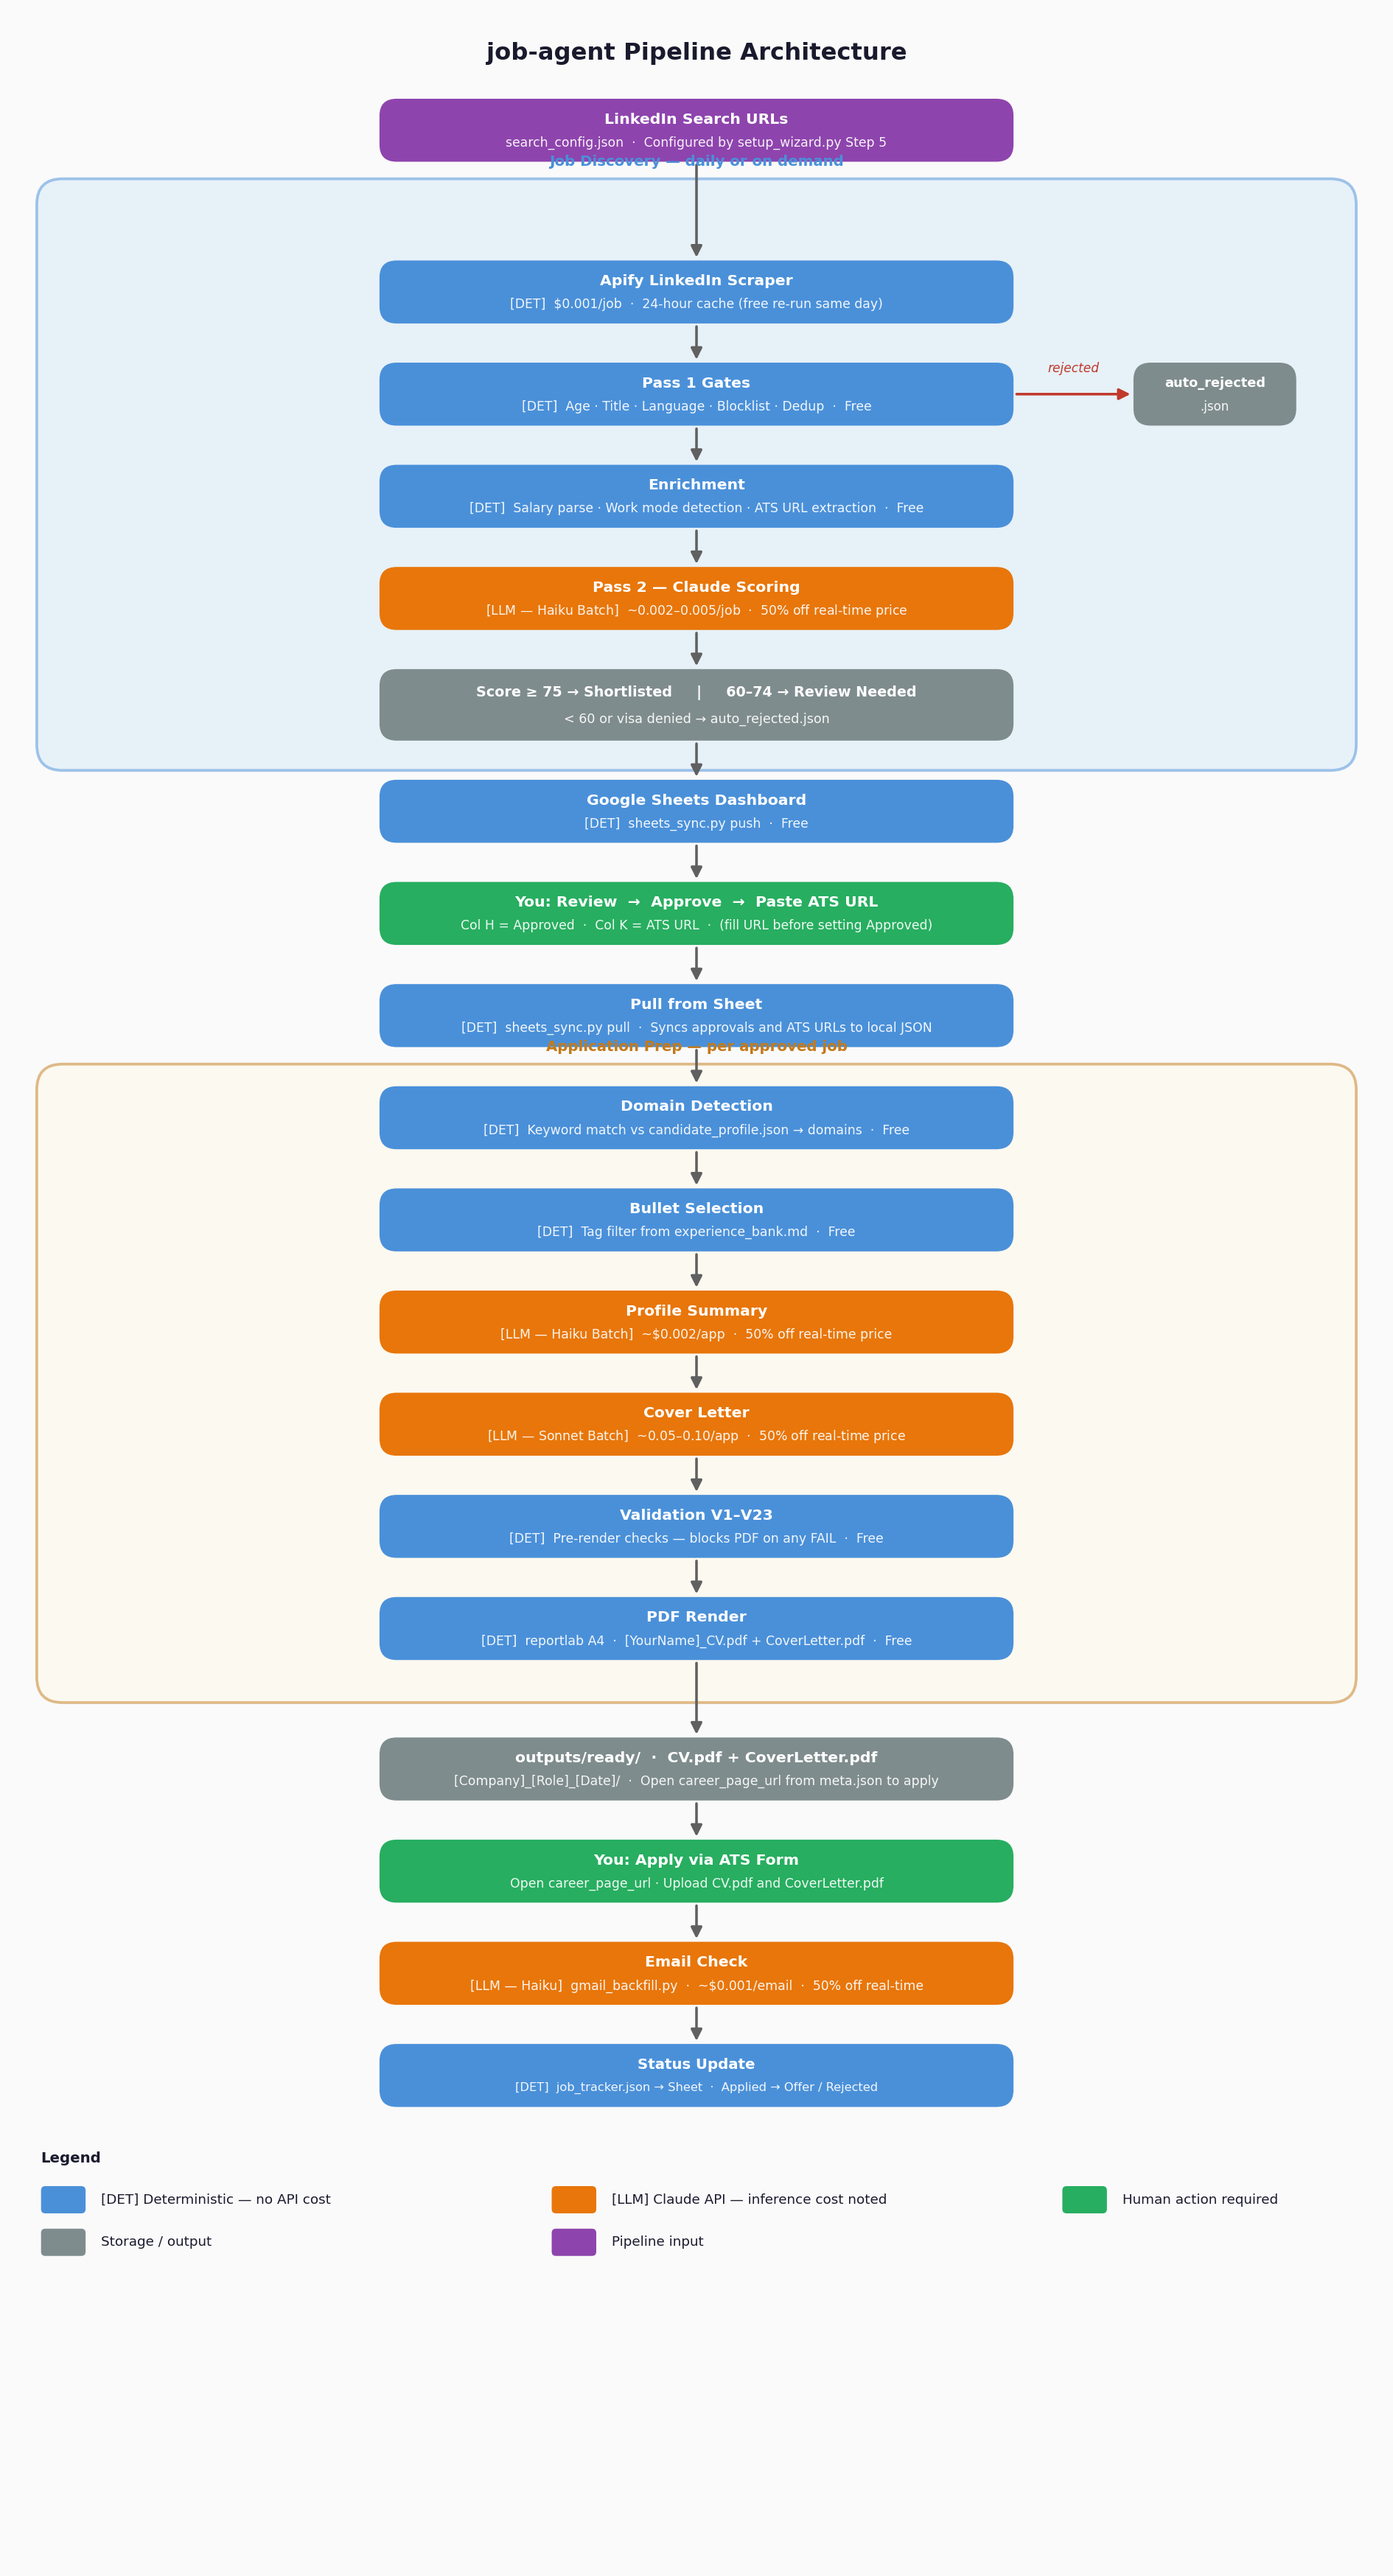
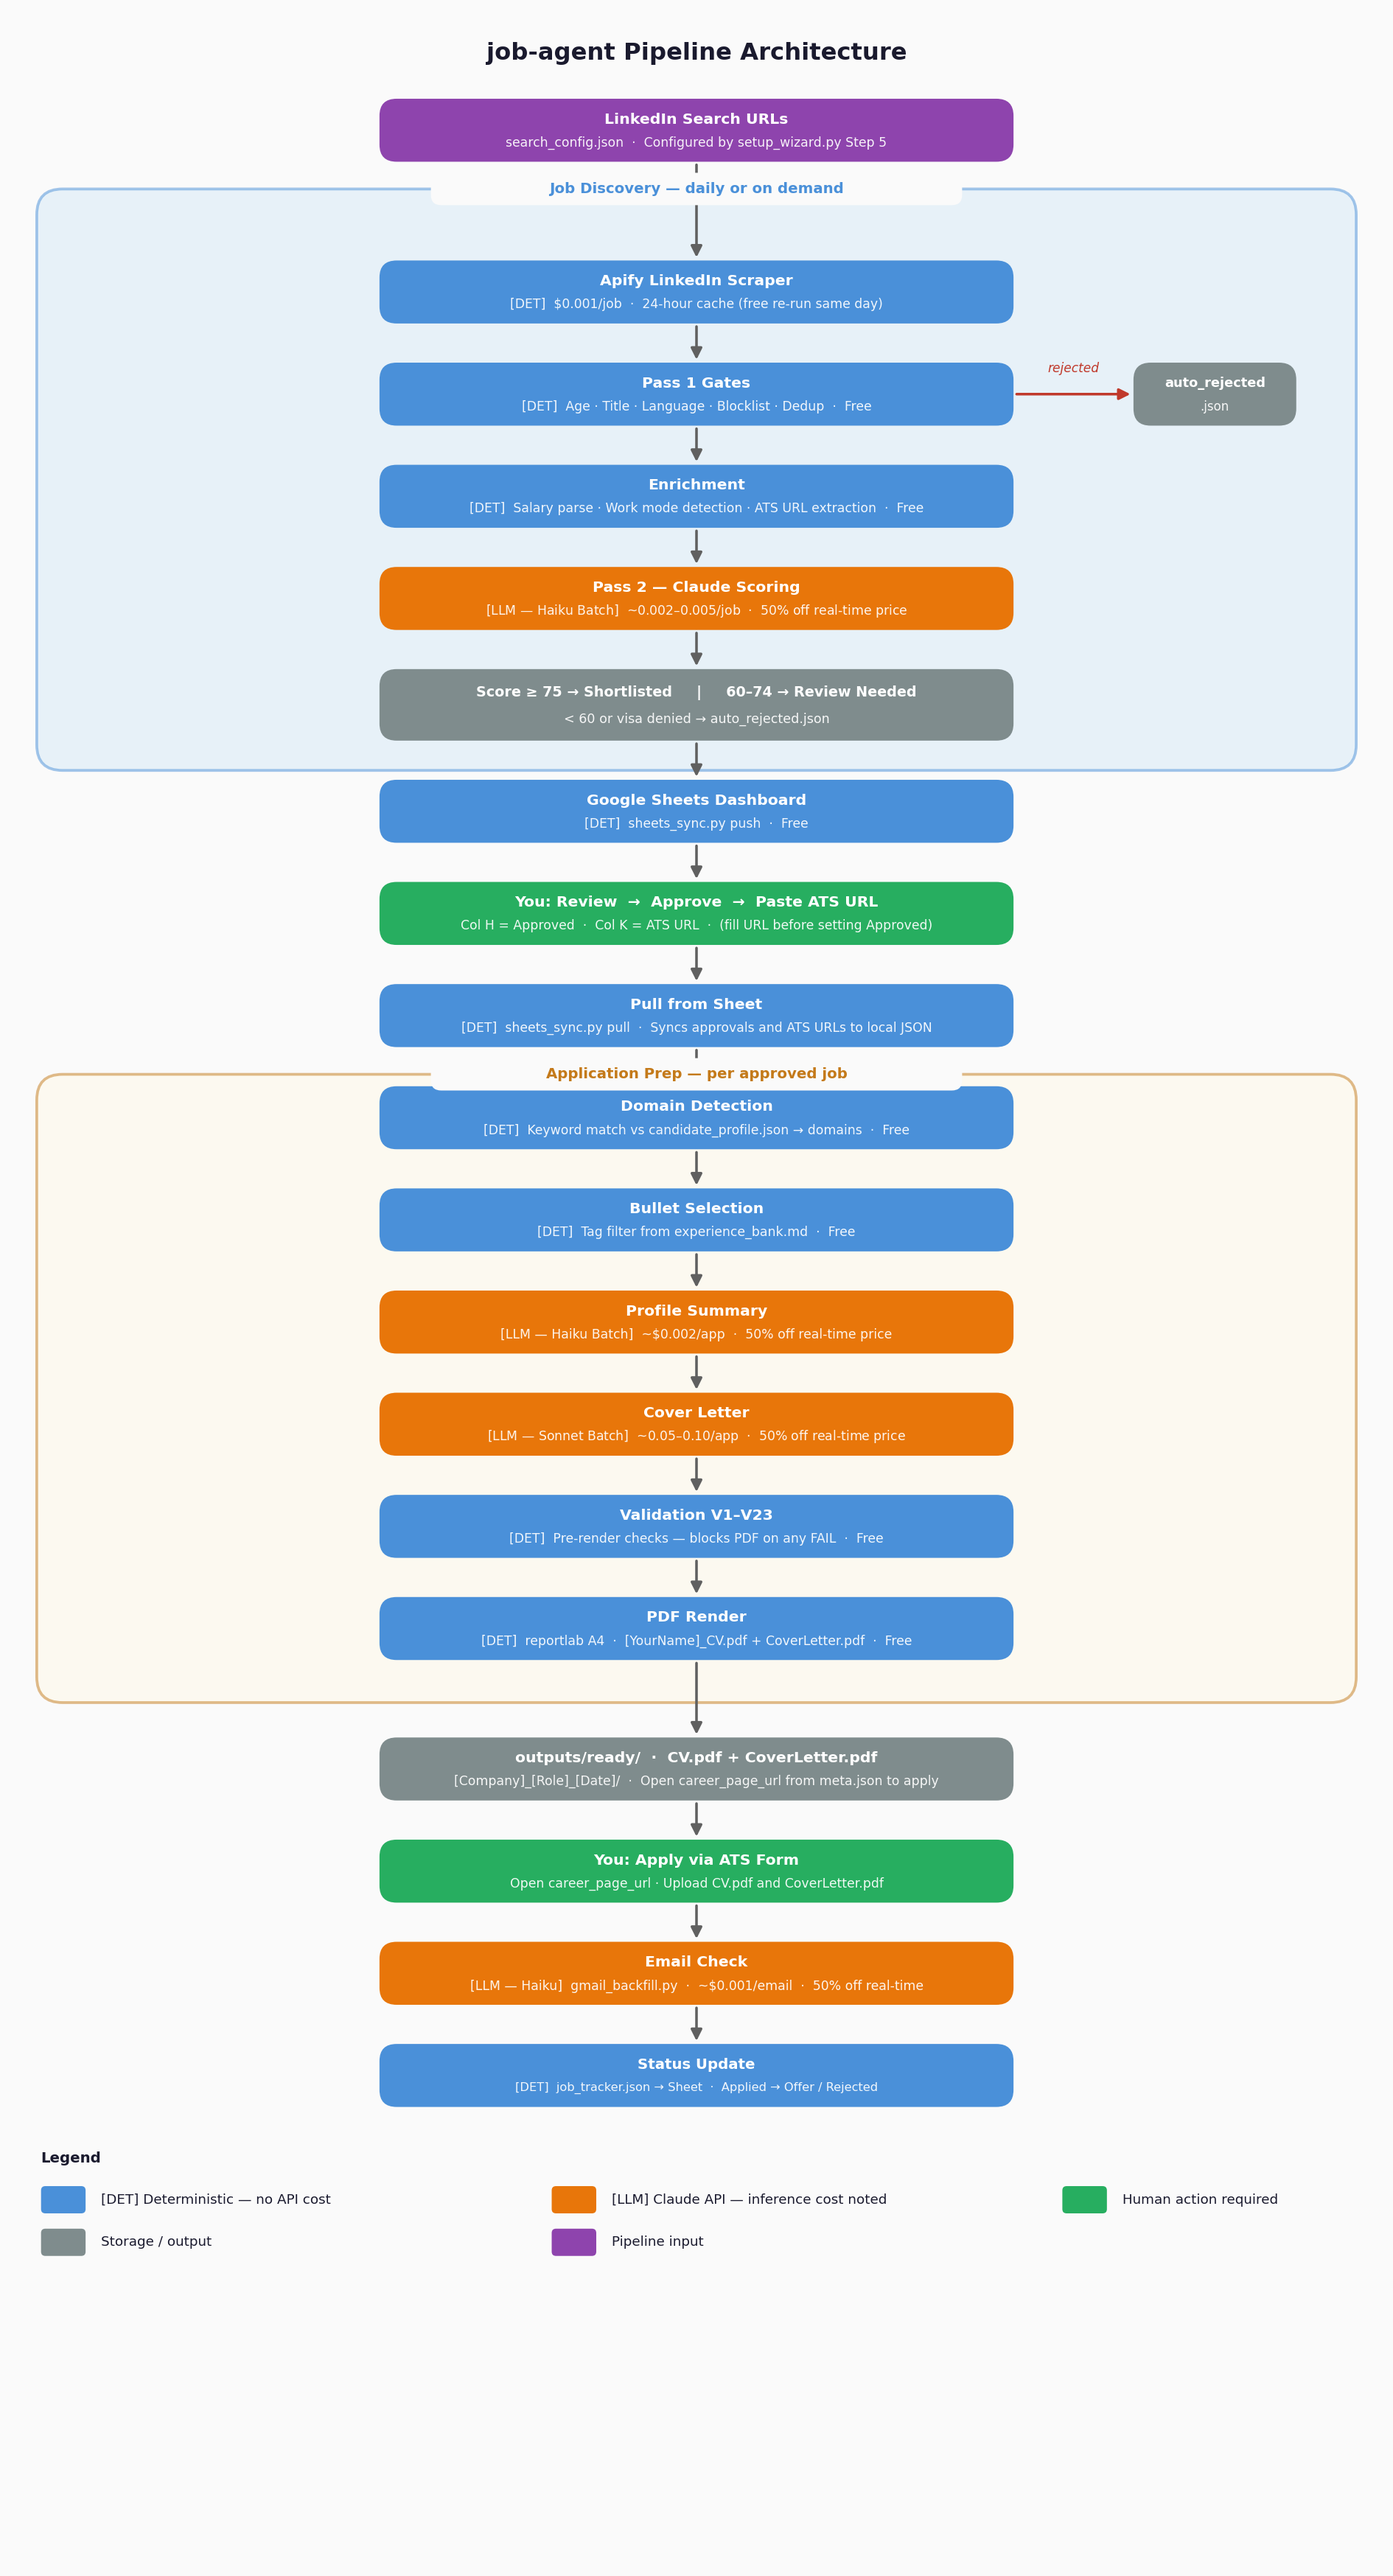
fix: embed group titles on border with white background pill
Replace floating above-box title with on-border label pattern.
A white rounded pill behind each title masks both the group border
stroke and the connecting arrow that passes through the border,
so both group labels are fully readable with no overlapping lines.

Claude-Session: https://claude.ai/code/session_01RPho4euH1z6KHtymjLkL1u

Changed region(s): [[0.3434, 0.4054, 0.6868, 0.4366], [0.4058, 0.0624, 0.5931, 0.0936]]

diff --git a/scripts/generate_diagram.py b/scripts/generate_diagram.py
@@ -91,9 +91,19 @@ def _group(ax, y_bot, height, title, fill, border):
         linewidth=1.8, edgecolor=border, facecolor=fill,
         zorder=1, alpha=0.50, clip_on=False,
     ))
-    # Title sits ABOVE the group box border so it never collides with interior nodes
-    ax.text(GX + GW/2, y_bot + height + 0.12, title,
-            ha="center", va="bottom", fontsize=9.5,
+    # Title is centred ON the top border line. A white pill behind it masks both
+    # the border stroke and any arrow that passes through this area, so the label
+    # is always readable regardless of what sits above or below.
+    tb_w, tb_h = 6.2, 0.38
+    ax.add_patch(FancyBboxPatch(
+        (GX + GW/2 - tb_w/2, y_bot + height - tb_h/2),
+        tb_w, tb_h,
+        boxstyle="round,pad=0,rounding_size=0.12",
+        linewidth=0, facecolor=BG,
+        zorder=4, clip_on=False,
+    ))
+    ax.text(GX + GW/2, y_bot + height, title,
+            ha="center", va="center", fontsize=9.5,
             color=border, fontweight="bold", zorder=5, clip_on=False)
 
 
@@ -187,7 +197,7 @@ def draw() -> Path:
     SCORE_HH = SCORE_H / 2
 
     # Draw scout group behind all its nodes
-    scout_top    = y_input - HH - 0.20   # just below input node bottom
+    scout_top    = y_input - HH - 0.32
     scout_bottom = y_score - SCORE_HH - 0.35
     _group(ax, scout_bottom, scout_top - scout_bottom,
            "Job Discovery — daily or on demand", GROUP_SCOUT, DET)
@@ -235,7 +245,7 @@ def draw() -> Path:
 
     # Pre-calculate y_pdf so prep_bottom is explicit (avoids straddle on boundary)
     y_pdf_calc  = y_pull - len(prep_nodes) * STEP
-    prep_top    = y_pull - HH - 0.20       # just below pull node bottom
+    prep_top    = y_pull - HH - 0.32
     prep_bottom = y_pdf_calc - HH - 0.50   # explicit 0.50 gap below last prep node
     _group(ax, prep_bottom, prep_top - prep_bottom,
            "Application Prep — per approved job", GROUP_PREP, "#C47A1A")
